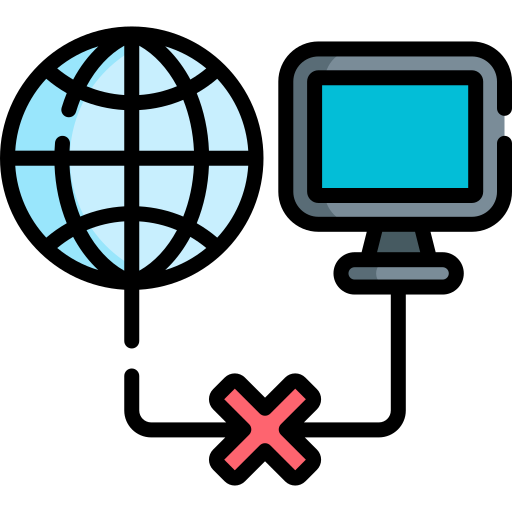
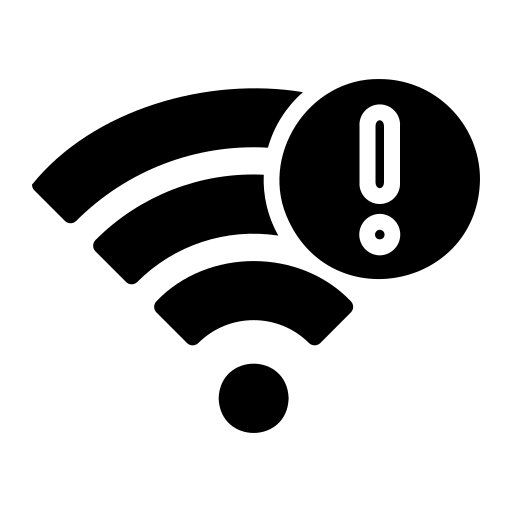
be-v0.06d4
Replaced new net icon
some fixes

diff --git a/code/cgame/cg_local.h b/code/cgame/cg_local.h
@@ -611,7 +611,7 @@ typedef struct
 	// crosshair client ID
 	int         crosshairClientNum;
 	int         crosshairClientTime;
-	qboolean    crosshairIgnoreFog; // true if the crosshair client is valid
+	qboolean    crosshairIgnoreFog;
 
 	// powerup active flashing
 	int         powerupActive;
@@ -2301,7 +2301,7 @@ int CG_NewParticleArea(int num);
 qboolean CG_DrawIntermission(void);
 /*************************************************************************************************/
 // #define OSP_VERSION "0.06-test" // OSP2 ogirinal
-#define OSP_VERSION "be-0.06d3" // BE
+#define OSP_VERSION "be-0.06d4" // BE
 
 
 

diff --git a/code/cgame/cg_scoreboard.c b/code/cgame/cg_scoreboard.c
@@ -1958,7 +1958,7 @@ qboolean CG_OSPDrawScoretableNew(void)
 		}
 		else
 		{
-			tmpArgStr = "PL ";
+			tmpArgStr = "PL";
 		}
 
 		tmpStr2 = tmpArgStr;
